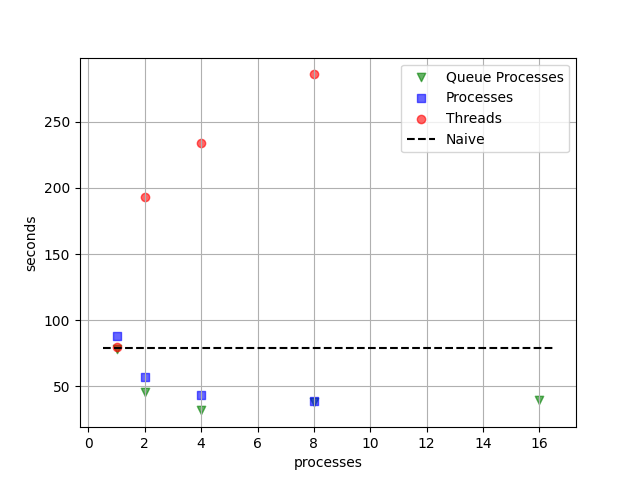
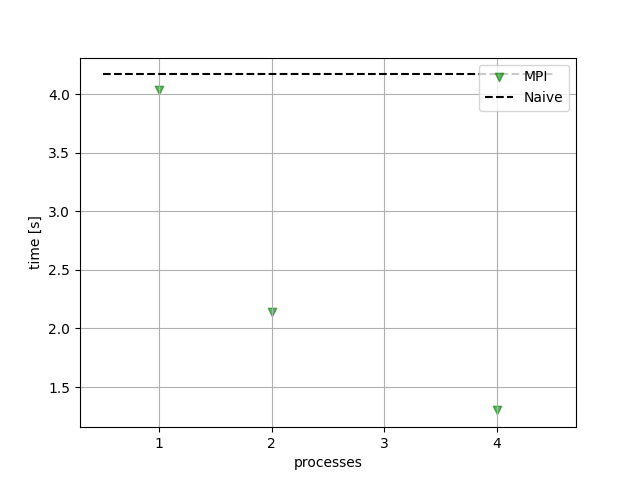
perf test

diff --git a/fig/plot.py b/fig/plot.py
@@ -1,17 +1,16 @@
 import numpy as np
 import matplotlib.pyplot as plt
-dataQ = [77.97438859939575, 46.04473257064819, 31.80805730819702, 38.320847511291504, 39.833889961242676]
-dataP = [87.73139786720276, 57.25099849700928, 43.5087628364563, 38.92410230636597]
-dataT = [79.55425310134888, 192.892076253891, 233.64544987678528, 285.8275969028473]
-baseline = 79.00875163078308
-x     = [1,2,4,8,16]
-h1 = plt.scatter(x=x, y=dataQ,marker='v',alpha=0.6,color='green')
-h2 = plt.scatter(x=x[:-1], y=dataP,marker='s',alpha=0.6,color='blue')
-h3 = plt.scatter(x=x[:-1], y=dataT,marker='o',alpha=0.6,color='red')
+import math
+data = [4.035101890563965, 2.142939567565918, 1.300379753112793]
+baseline = 4.168240785598755
+x     = [1,2,4]
+h1 = plt.scatter(x=x, y=data,marker='v',alpha=0.6,color='green')
 h4 = plt.hlines(xmin=x[0]-0.5, xmax=x[-1]+0.5, y=baseline,linestyles='--',color='black')
-plt.legend([h1,h2,h3,h4],['Queue Processes','Processes','Threads','Naive'])
+plt.legend([h1, h4],['MPI','Naive'])
+ew_list = range(math.floor(min(x)), math.ceil(max(x))+1)
+plt.xticks(ew_list)
 plt.xlabel('processes')
-plt.ylabel('seconds')
+plt.ylabel('time [s]')
 plt.grid()
 plt.savefig('perf.png')
 

diff --git a/performance_evaluation.py b/performance_evaluation.py
@@ -1,0 +1,20 @@
+from mpi.parallel import CartesianComm
+from utils.inputargs import Parser
+from lattice.grid import LatticeRealMatrix
+import numpy as np 
+import time
+
+if __name__=='__main__': 
+
+    CC = CartesianComm(mpigrid=[2,2,1,1])
+    test = np.reshape(
+        np.array([int(i) for i in range(20*20*40*40*2*2)], dtype='float32'), (20*20*40*40,  2, 2))    
+    Lattice = LatticeRealMatrix(grid=[20,20,40,40], cartesiancomm=CC, N=2)
+    Lattice2 = LatticeRealMatrix(grid=[20,20,40,40], cartesiancomm=CC, N=2)
+    Lattice.fill_value(n=test)
+    Lattice2.fill_value(n=test)
+    start = time.time()
+    result = (Lattice*Lattice2).reducesum()
+    end = time.time()
+    print(end - start)
+

diff --git a/README.md b/README.md
@@ -3,20 +3,19 @@ Lattice Gauge Theory simulation library:
 
 [![Run Python Tests](https://github.com/pretidav/pyLattice/actions/workflows/testonbuild.yml/badge.svg)](https://github.com/pretidav/pyLattice/actions/workflows/testonbuild.yml)
 
-# Testing 
+# Performance Test 
 
-MatrixField = LatticeVectorRealMatrix(lattice=Grid,Nd=2,N=3)
+~~~
+Grid 40x40x40x40
 
-MatrixField2 = LatticeVectorRealMatrix(lattice=Grid,Nd=2,N=3)
+MatrixField = LatticeRealMatrix(lattice=Grid,Nd=2,N=3)
+MatrixField2 = LatticeRealMatrix(lattice=Grid,Nd=2,N=3)
+(MatrixField*MatrixField2).reducesum()
 
-Grid 60x60x60x60
-
-MatrixField*MatrixField2
-
-Intel(R) Core(TM) i5-8365U CPU @ 1.60GHz
+@ Intel(R) Core(TM) i5-8365U CPU @ 1.60GHz
 
 Thread(s) per core:  2
-
 Core(s) per socket:  4
+~~~
 
 ![alt text](https://github.com/pretidav/pyLattice/raw/parallel/fig/perf.png)
